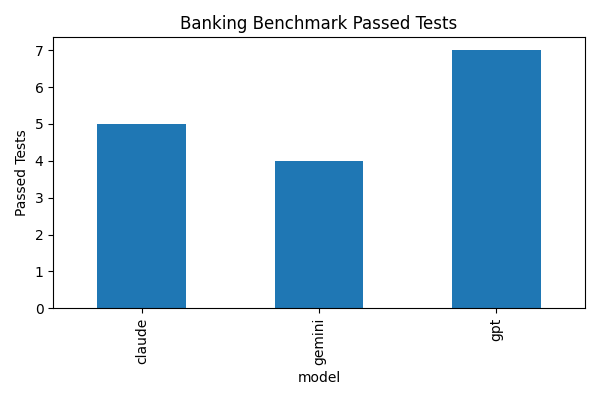
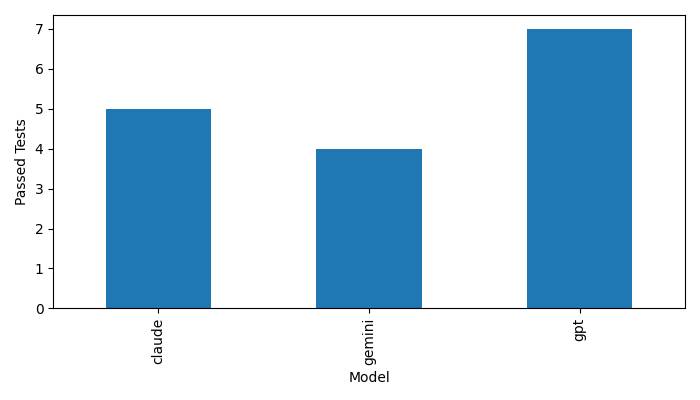
updated thesis structure, evaluation and documentation

diff --git a/banking_app/results/analyze_banking_results.py b/banking_app/results/analyze_banking_results.py
@@ -1,0 +1,109 @@
+import pandas as pd
+import matplotlib.pyplot as plt
+from pathlib import Path
+
+CSV_PATH = Path("banking_benchmark_results.csv")
+
+if not CSV_PATH.exists():
+    raise FileNotFoundError("banking_benchmark_results.csv wurde nicht gefunden.")
+
+df = pd.read_csv(CSV_PATH)
+
+print("\n=== Banking App Evaluation ===\n")
+
+summary = (
+    df.groupby(["model", "status"])
+    .size()
+    .unstack(fill_value=0)
+)
+
+print(summary)
+
+summary["total"] = summary.sum(axis=1)
+
+if "correct" not in summary.columns:
+    summary["correct"] = 0
+
+summary["success_rate"] = (
+    summary["correct"] / summary["total"] * 100
+).round(2)
+
+print("\n=== Success Rates ===\n")
+print(summary[["correct", "total", "success_rate"]])
+
+summary.to_csv("banking_summary.csv")
+
+# Diagramm: Passed Tests
+plt.figure(figsize=(7, 4))
+summary["correct"].plot(kind="bar")
+plt.ylabel("Passed Tests")
+plt.xlabel("Model")
+plt.tight_layout()
+plt.savefig("banking_passed_tests.png")
+plt.close()
+
+# Diagramm: Success Rate
+plt.figure(figsize=(7, 4))
+summary["success_rate"].plot(kind="bar")
+plt.ylabel("Success Rate (%)")
+plt.xlabel("Model")
+plt.ylim(0, 100)
+plt.tight_layout()
+plt.savefig("banking_success_rate.png")
+plt.close()
+
+# Fehlertypen ohne correct
+error_df = df[df["status"] != "correct"]
+
+if not error_df.empty:
+    error_summary = (
+        error_df.groupby(["model", "status"])
+        .size()
+        .unstack(fill_value=0)
+    )
+
+    print("\n=== Error / Failed Tests ===\n")
+    print(error_summary)
+
+    error_summary.to_csv("banking_error_summary.csv")
+
+    plt.figure(figsize=(8, 4))
+    error_summary.plot(kind="bar", stacked=True)
+    plt.ylabel("Count")
+    plt.xlabel("Model")
+    plt.tight_layout()
+    plt.savefig("banking_failed_tests.png")
+    plt.close()
+
+# Testweise Auswertung: welcher Test schlägt bei welchem Modell fehl?
+test_summary = (
+    df.assign(is_correct=df["status"] == "correct")
+    .groupby(["test", "model"])["is_correct"]
+    .mean()
+    .unstack(fill_value=0)
+    * 100
+).round(2)
+
+print("\n=== Test-Level Success Rate ===\n")
+print(test_summary)
+
+test_summary.to_csv("banking_test_level_summary.csv")
+
+plt.figure(figsize=(10, 5))
+test_summary.plot(kind="bar")
+plt.ylabel("Success Rate (%)")
+plt.xlabel("Test")
+plt.ylim(0, 100)
+plt.tight_layout()
+plt.savefig("banking_test_level_success.png")
+plt.close()
+
+print("\nAuswertung abgeschlossen.")
+print("Erzeugte Dateien:")
+print("- banking_summary.csv")
+print("- banking_error_summary.csv")
+print("- banking_test_level_summary.csv")
+print("- banking_passed_tests.png")
+print("- banking_success_rate.png")
+print("- banking_failed_tests.png")
+print("- banking_test_level_success.png")